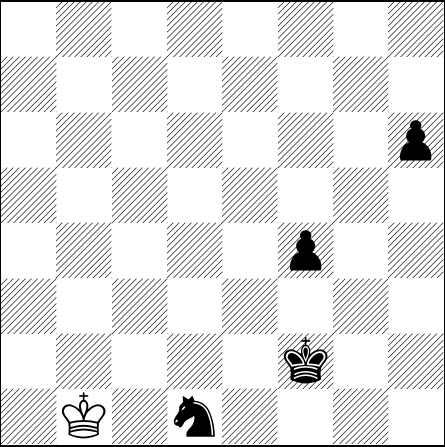
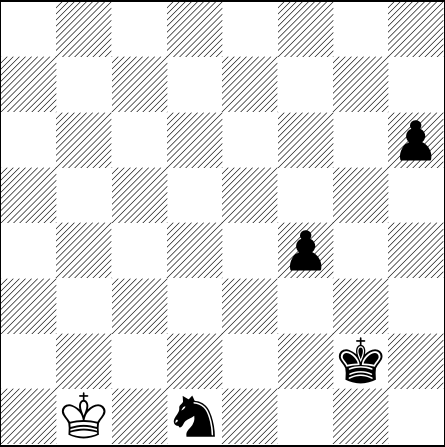
[automated] Regenerate text/pdf for chessboard

Changed region(s): [[0.6135, 0.7562, 0.8764, 0.8725]]

diff --git a/default_filepath.tex b/default_filepath.tex
@@ -13,6 +13,6 @@
 \normalsize%
 \setchessboard{showmover=false}%
 \newgame%
-\fenboard{8/8/7p/8/5p2/8/5k2/1K1n4 b - - 17 162}%
+\fenboard{8/8/7p/8/5p2/8/6k1/1K1n4 w - - 18 163}%
 \chessboard%
 \end{document}
